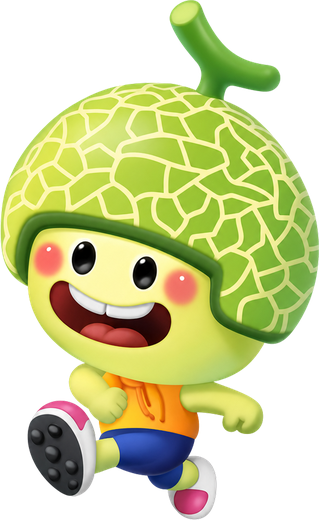
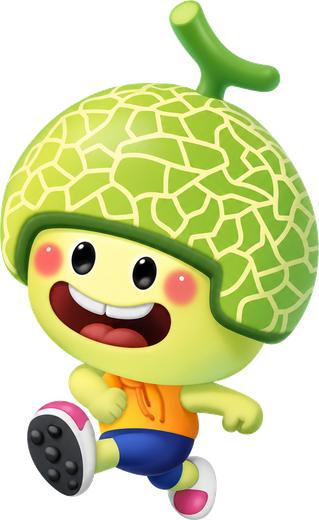
chore: 로니 이미지 교체 (?v=3)

diff --git a/index.html b/index.html
@@ -22,7 +22,7 @@
       <div class="landing-deco deco-2"></div>
       <div class="landing-inner">
         <div class="landing-hero">
-          <img src="assets/images/roni.png?v=2" alt="로니" class="landing-roni" draggable="false" />
+          <img src="assets/images/roni.png?v=3" alt="로니" class="landing-roni" draggable="false" />
           <img src="assets/images/ball.png?v=2" alt="" class="landing-ball" draggable="false" />
         </div>
         <h1 class="landing-title">메론킥 슛!</h1>
@@ -108,7 +108,7 @@
           <p id="result-hits" class="result-hits">명중 0 / 3</p>
           <p id="result-grade" class="result-grade">퍼펙트!</p>
           <div class="result-roni-wrap">
-            <img id="result-roni" src="assets/images/roni.png?v=2" alt="로니" class="result-roni" draggable="false" />
+            <img id="result-roni" src="assets/images/roni.png?v=3" alt="로니" class="result-roni" draggable="false" />
           </div>
           <p id="result-comment" class="result-comment"></p>
           <p class="result-best">내 최고기록 <strong id="result-best-value">0점</strong></p>
